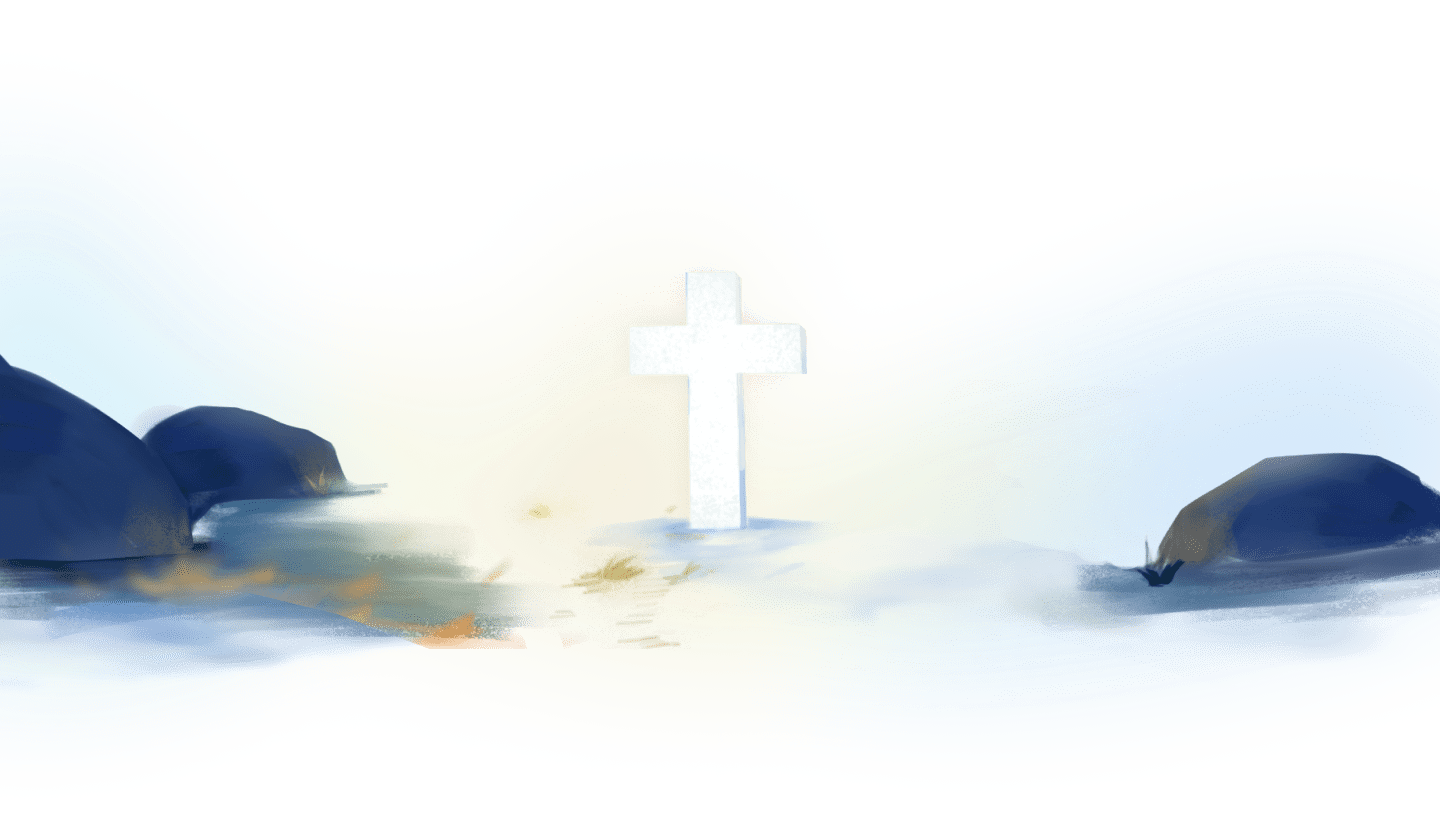
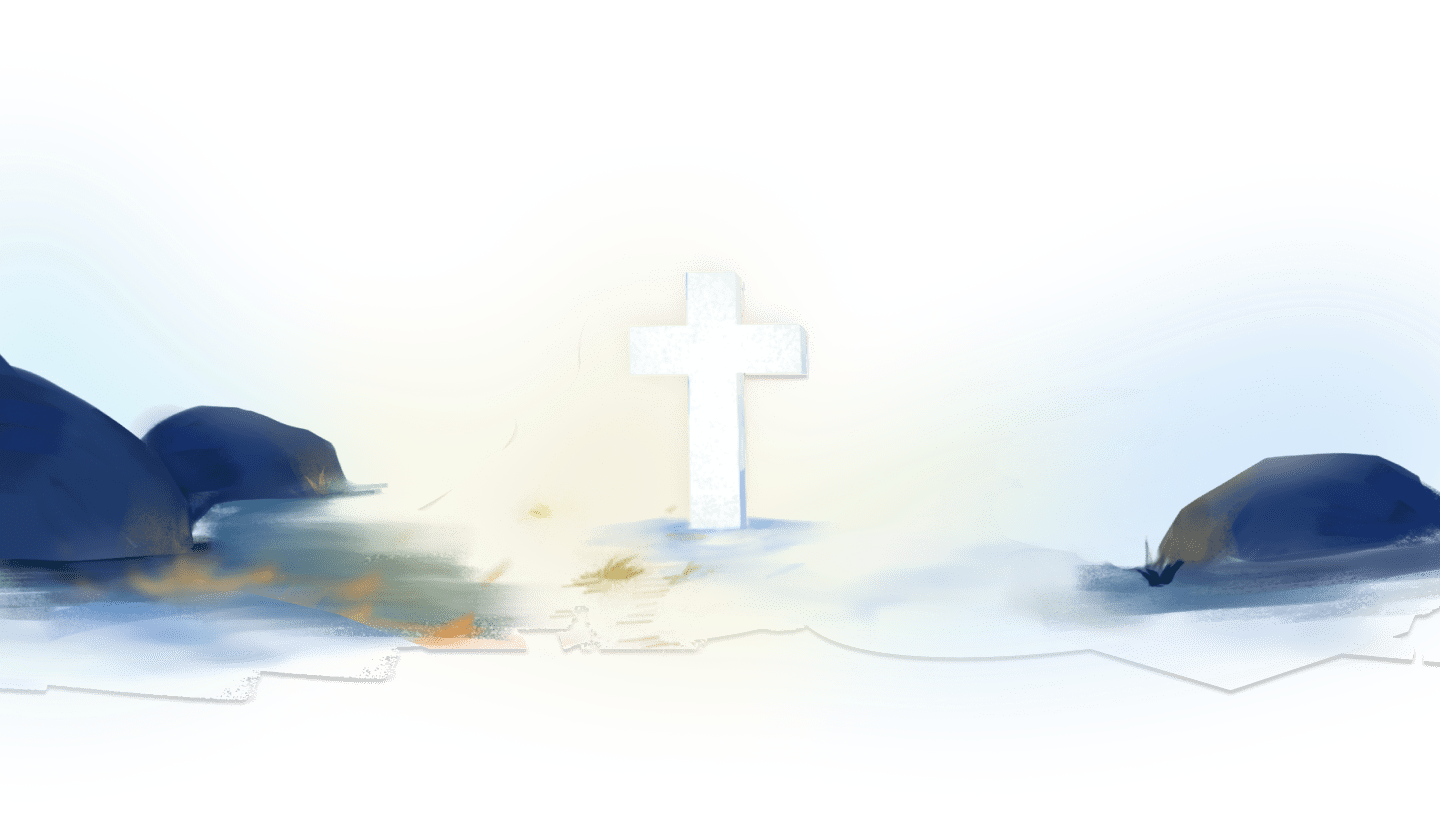
GH-273: Fix Image Directory & Optimized gif and png

diff --git a/ui/src/components/easter/hero/HeroContainer.js b/ui/src/components/easter/hero/HeroContainer.js
@@ -15,13 +15,13 @@ const HeroContainer = () => {
       marginTop ='10'
       bgColor='white'
       paddingBottom='40%'
-      bgImage={{base: `url('${process.env.PUBLIC_URL}/images/heroeaster/HeroLandingMobile.png')`,sm:`url('${process.env.PUBLIC_URL}/images/heroeaster/HeroLandingBackground.png')`}}
+      bgImage={{base: `url('${process.env.PUBLIC_URL}/images/easter/HeroLandingMobile.png')`,sm:`url('${process.env.PUBLIC_URL}/images/easter/HeroLandingBackground-min.png')`}}
       bgPosition='bottom'>
       
       <Container maxW="container.lg" py={10}>
         <VStack spacing={[1, 1]} align="stretch">
           <Box
-                bgImage={`url('${process.env.PUBLIC_URL}/images/heroeaster/HeroBecauseJESUScroptransparent.gif')`}
+                bgImage={`url('${process.env.PUBLIC_URL}/images/easter/HeroBecauseJESUScroptransparent-min.gif')`}
                 bgPosition={"left"}
                 bgSize="100%"
                 // px={[0, 0, 0]}
@@ -39,7 +39,7 @@ const HeroContainer = () => {
           
           {'Mobile Picture GIF'}
           
-          <Box  bgImage={`url('${process.env.PUBLIC_URL}/images/heroeaster/HeroBecauseJESUSMobileCropped.gif')`}
+          <Box  bgImage={`url('${process.env.PUBLIC_URL}/images/easter/HeroBecauseJESUSMobileCropped.gif')`}
               bgPosition='top'
               bgSize= '99%'
               backgroundRepeat='no-repeat'
